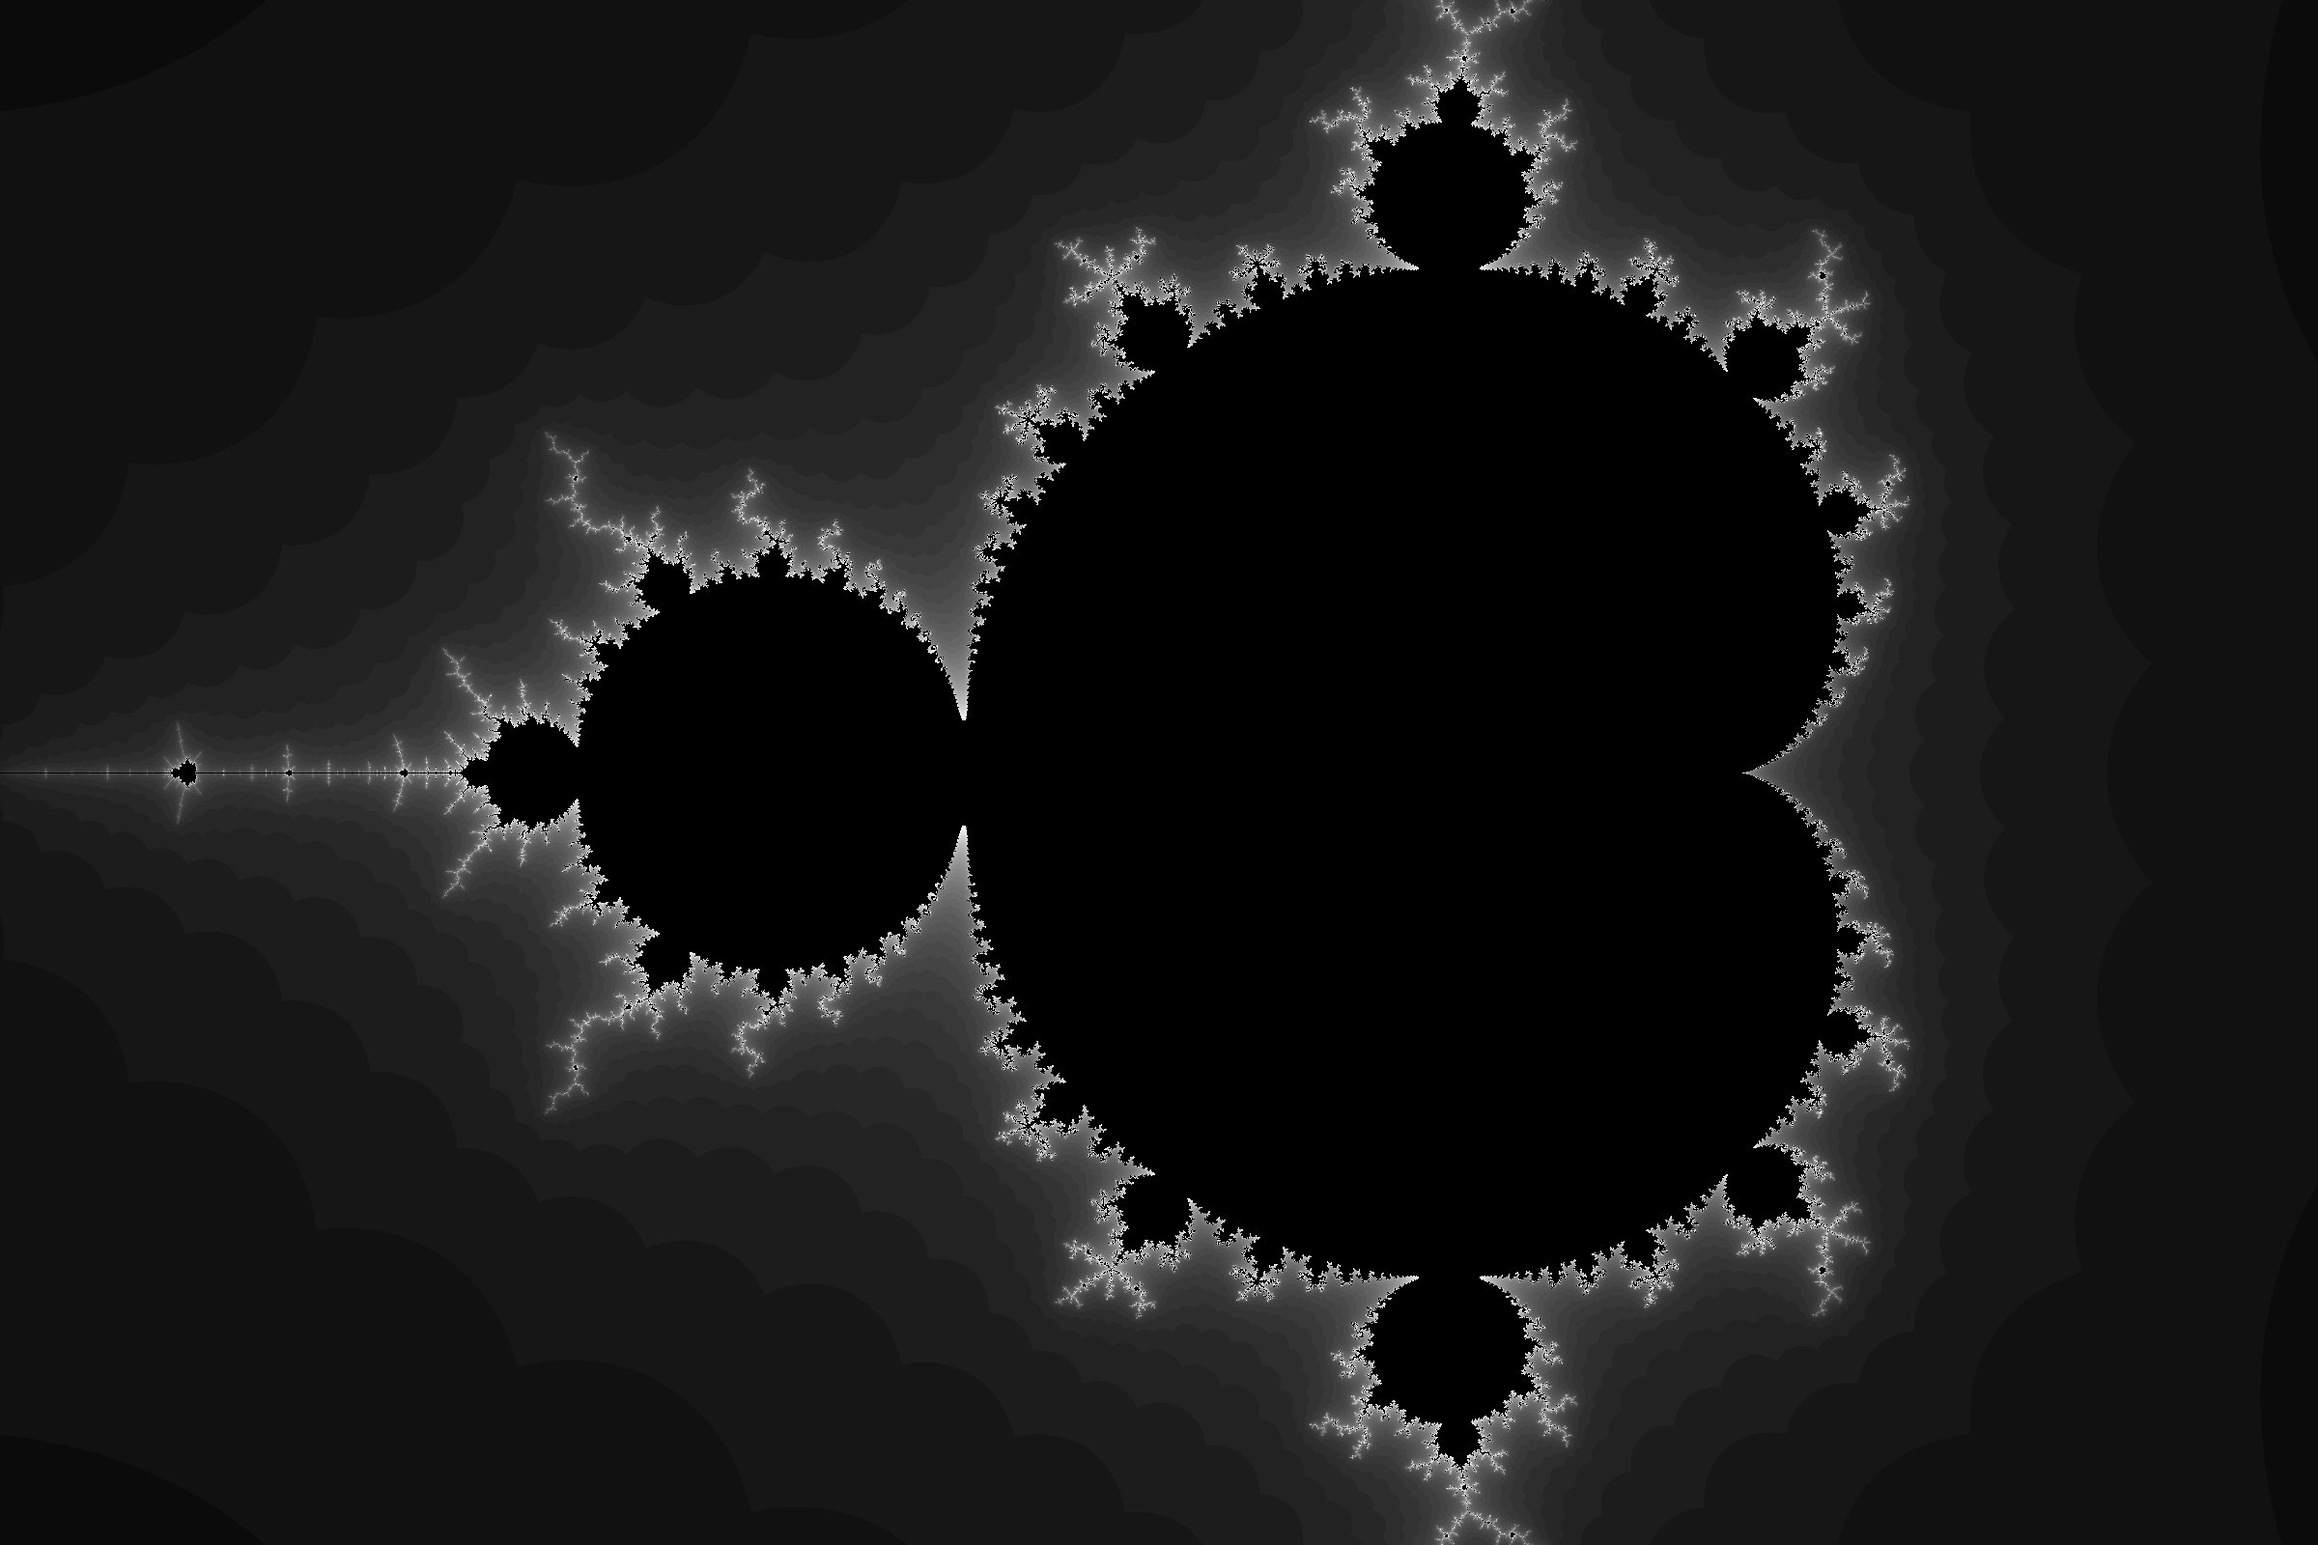
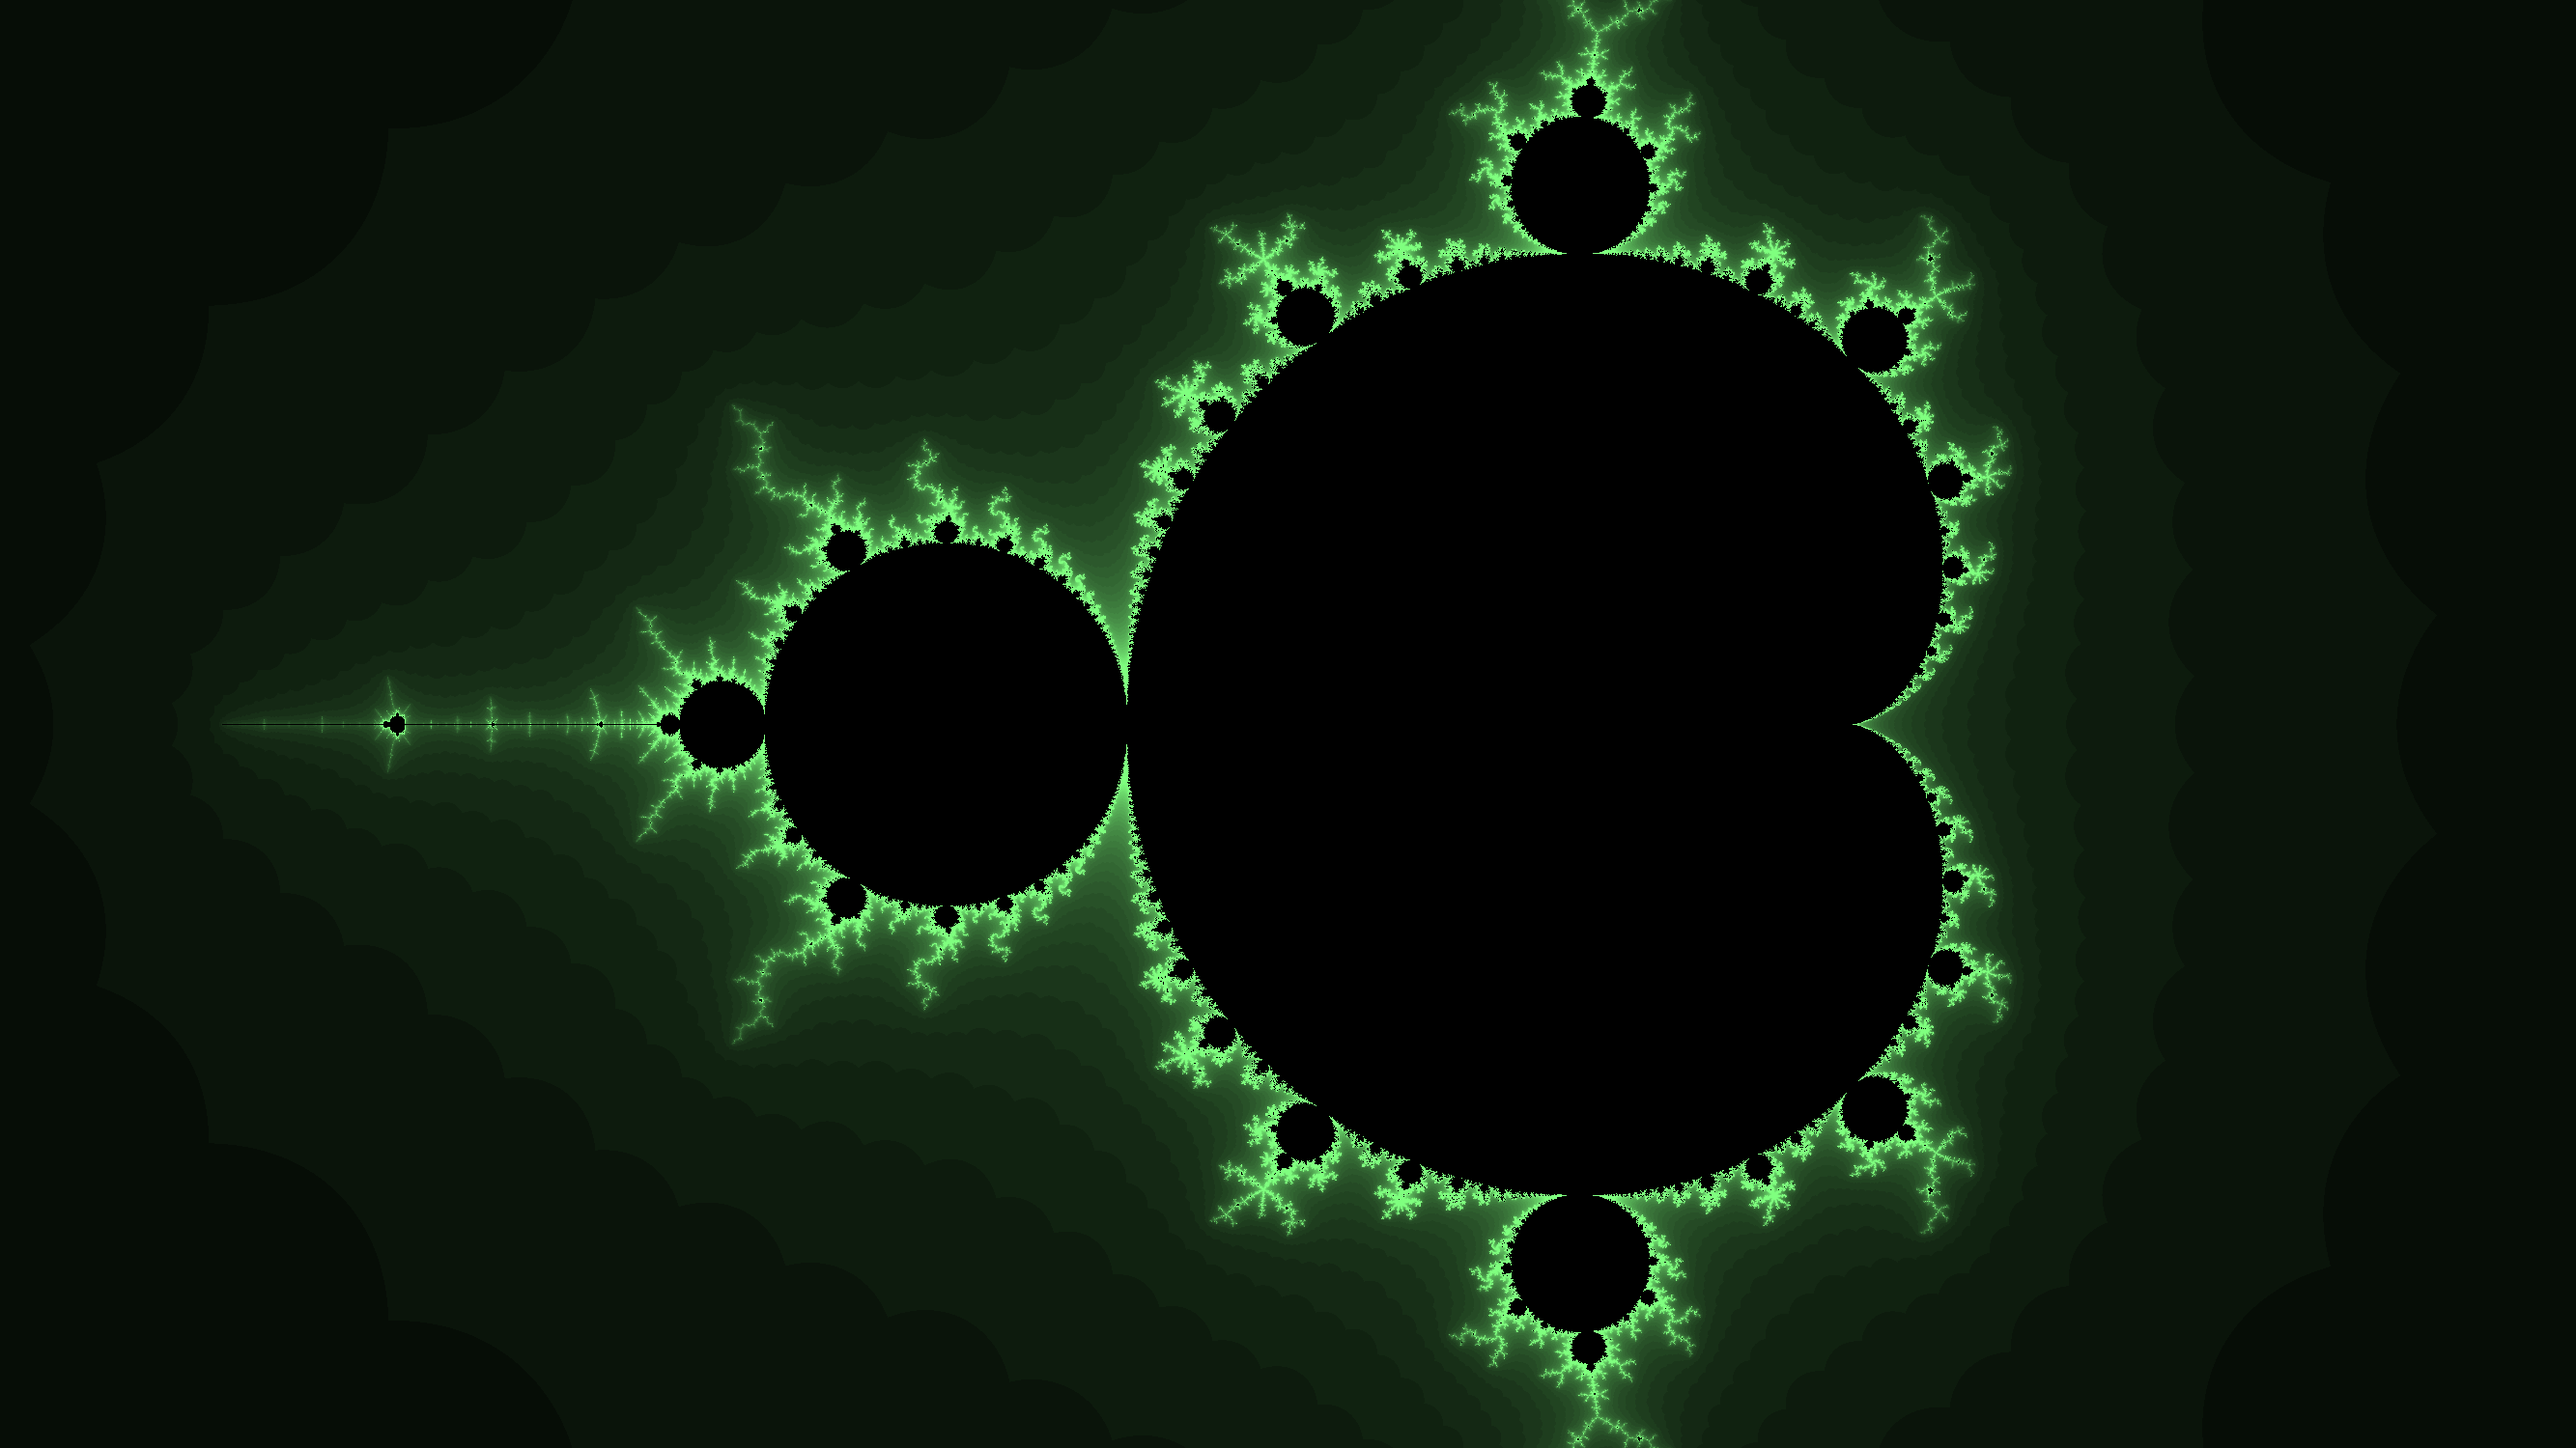
updated ui, and new preview image

Changed region(s): [[0.0, 0.0, 0.8438, 1.0]]

diff --git a/mandlebrot.py b/mandlebrot.py
@@ -1,36 +1,71 @@
 import pygame
 import threading
 import time
-rangeX = (-2,1)
+def clamp(num, min_value, max_value):
+    return max(min(num, max_value), min_value)
+def getTime():
+    return round(time.time()*1000)
+def timeDifString(num):
+    num2 = round(num*1000)/1000
+    if (num > 1000*60*60*24):#days
+        num2 = round(num/(1000*60*60*24)*1000)/1000
+        string = str(num2).ljust(6, "0")
+        return (string + "days").rjust(9, " ")# 9 possible digits
+    elif (num > 1000*60*60):#hours
+        num2 = round(num/(1000*60*60)*1000)/1000
+        string = str(num2)
+        if (num2 < 10):
+            string = "0"+string
+        string = string.ljust(6, "0")
+        return (string + "hrs").rjust(9, " ")# 9 possible digits
+    elif (num > 1000*60):#minutes
+        num2 = round(num/(1000*60)*1000)/1000
+        string = str(num2)
+        if (num2 < 10):
+            string = "0"+string
+        string = string.ljust(6, "0")
+        return (string + "min").rjust(9, " ")# 8 possible digits
+    elif (num > 1000):#seconds
+        num2 = round(num/(1000)*1000)/1000
+        string = str(num2)
+        if (num2 < 10):
+            string = "0"+string
+        string = string.ljust(6, "0")
+        return (string + "s").rjust(9, " ")# 8 possible digits
+    else:#milli-seconds
+        return (str(num2).ljust(4, "0")+"ms").rjust(9, " ")# 6 possible digits
+
+
+#IMPORTANT
+rangeX = (1.25-(32/9),1.25)
 rangeY = (-1,1)
 #rangeX = (-0.593100,-0.592600)
 #rangeY = (-0.4343125,-0.4339125)
-
-resolution = 500/min(abs(rangeX[0]-rangeX[1])/3,abs(rangeY[0]-rangeY[1])/3)
-width, height = round(abs(rangeX[0]-rangeX[1])*resolution), round(abs(rangeY[0]-rangeY[1])*resolution)
-infRange = 20
-accuracy = 5000
-col = (255,255,255)#white
+xrange = abs(rangeX[0]-rangeX[1])
+yrange = abs(rangeY[0]-rangeY[1])
+resolution = 500/min(xrange/3,yrange/3)
+width, height = round(xrange*resolution), round(yrange*resolution)
+infRange = 25
+accuracy = 150
+col = (127,255,127)#white
 #col = (86, 29, 201)#purple
 #col = (127,0,0)#maroon
 
 def j(cord,cord2,x,y,surface):
     cord = ((cord[0]*cord[0])-(cord[1]*cord[1]) + cord2[0],(2*cord[0]*cord[1]) + cord2[1])
     count = 0
-    while (cord[0] < rangeX[0]+infRange and cord[0] > rangeX[1]-infRange and cord[1] < rangeY[0]+infRange and cord[1] > rangeY[1]-infRange):
+    while (cord[0] > rangeX[0]-infRange and cord[0] < rangeX[1]+infRange and cord[1] > rangeY[1]-infRange and cord[1] < rangeY[0]+infRange):
         if (count>accuracy):
             count = 0
             break
         count = count+1
         cord = ((cord[0]*cord[0])-(cord[1]*cord[1]) + cord2[0],(2*cord[0]*cord[1]) + cord2[1])
         continue
-    surface.set_at((x, y), ((count/accuracy)*col[0],(count/accuracy)*col[1],(count/accuracy)*col[2]))
+    thing = clamp(count/(accuracy/4),0,1)
+    surface.set_at((x, y), (thing*col[0],thing*col[1],thing*col[2]))
     return
 
 surface = pygame.Surface((width, height));
-
-def getTime():
-    return round(time.time()*1000)
 
 cnt = 0;
 startTime = getTime()
@@ -41,16 +76,19 @@ for x in range(0,width):
         cnt = cnt+1
         crd = ((x/width*abs(rangeX[0]-rangeX[1])+rangeX[0]),  (y/height*abs(rangeY[0]-rangeY[1])+rangeY[0]))
         
-        if (round(cnt%(width*height/100))==0):
+        if (round(cnt%(width*height/100))==0):# nearest percent
             tm = getTime()
-            print(str(round(cnt/width/height*100))+"%, since last percent : " + str((tm-lastTime)/1000/60) + "min, total time : " + str((tm-startTime)/1000/60) + "min")
+            percent = cnt/(width*height)
+            sincelast = (tm-lastTime)
+            total = (tm-startTime)
+            estimate = total/percent
+            print(str(round(percent*100)).rjust(3, " ") + "%, " + timeDifString(sincelast) + " since last percent, total time : " + timeDifString(total) + ", finish time estimate: " + timeDifString(estimate))
             lastTime = tm
-        val = j(crd,crd,x,y,surface)
-        '''if (threading.active_count() < 5):
+        if (threading.active_count() < 5):
             threading.Thread(target=j,args=(crd,crd,x,y,surface)).start()
         else:
-            val = j(crd,crd,x,y,surface)'''
+            val = j(crd,crd,x,y,surface)
 
 
-pygame.image.save(surface, "mandlebrotZoomed.jpg")
-print("\ntotal time : " + str((getTime()-startTime)/1000/60) + "min")
+pygame.image.save(surface, "Preview.png")
+print("\ntotal time : " + timeDifString(getTime()-startTime) + "!")
